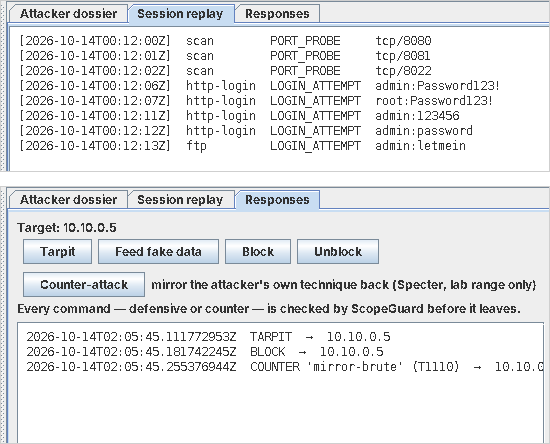
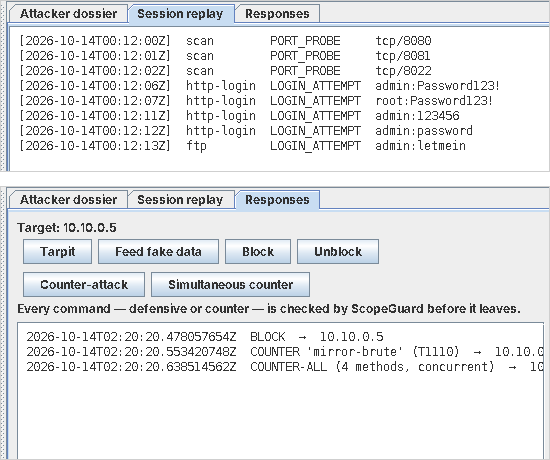
Add a simultaneous (multithreaded) counter: all methods at once
Adds Attacker.launchConcurrent and CounterOffensive.counterAll: on the
operator's command the counter runs every mirror technique (scan, brute,
spray, replay) at the same time, each on its own pool thread, so the source
faces several methods in parallel. A "Simultaneous counter" button logs
COUNTER-ALL (4 methods, concurrent).

Bounded by design -- the same fixed set of techniques run once in parallel,
not an unbounded flood -- and still ScopeGuard-gated: the check runs once on
the caller's thread before any thread starts, so an out-of-range target is
refused before anything runs.

Concurrency is proven, not assumed: CounterOffensiveTest launches four
strategies that only complete if they run at the same time (a CyclicBarrier
that would deadlock if they ran sequentially). 48 tests green (mvn verify).

Report §5.3 (Figure 7), CLAUDE.md and HANDOVER updated.

Claude-Session: https://claude.ai/code/session_01W4Vr2F2hnMnFSFYfWMF2k4

diff --git a/src/test/java/com/mirage/CounterOffensiveTest.java b/src/test/java/com/mirage/CounterOffensiveTest.java
@@ -13,6 +13,9 @@ import org.junit.jupiter.api.Test;
 
 import java.util.List;
 import java.util.Optional;
+import java.util.concurrent.CountDownLatch;
+import java.util.concurrent.CyclicBarrier;
+import java.util.concurrent.TimeUnit;
 
 import static org.junit.jupiter.api.Assertions.*;
 
@@ -26,7 +29,10 @@ class CounterOffensiveTest {
 
     @Test
     void mirrorsAtAnInRangeSourceButRefusesOutOfRange() {
-        CounterStrategy strategy = technique -> Optional.of(new Campaign("test", List.of(new NoOpAttack())));
+        CounterStrategy strategy = new CounterStrategy() {
+            @Override public Optional<Campaign> counterFor(Classification t) { return Optional.of(new Campaign("test", List.of(new NoOpAttack()))); }
+            @Override public Campaign fullCounter() { return new Campaign("test-full", List.of(new NoOpAttack())); }
+        };
         Attacker attacker = new Attacker(new ScopeGuard(List.of("10.10.0.0/24")), line -> { });
         CounterOffensive counter = new CounterOffensive(attacker, strategy, 8080);
         Classification brute = new Classification("Credential brute-force", "T1110", Severity.HIGH);
@@ -39,6 +45,40 @@ class CounterOffensiveTest {
         assertTrue(outOfRange.contains("REFUSED"), outOfRange);
 
         assertEquals(2, counter.log().size());
+        attacker.shutdown();
+    }
+
+    @Test
+    void counterAllRunsEveryMethodAtTheSameTime() throws Exception {
+        int methods = 4;
+        // A barrier that only trips if all methods are running simultaneously; if they
+        // ran one after another, the first would time out and the latch would never reach 0.
+        CyclicBarrier barrier = new CyclicBarrier(methods);
+        CountDownLatch finished = new CountDownLatch(methods);
+        AttackStrategy blocking = new AttackStrategy() {
+            @Override public void run(Target target) {
+                try {
+                    barrier.await(2, TimeUnit.SECONDS);
+                    finished.countDown();
+                } catch (Exception ignored) {
+                    // broken barrier -> the methods were not concurrent
+                }
+            }
+            @Override public String name() { return "blocking"; }
+        };
+        List<AttackStrategy> four = List.of(blocking, blocking, blocking, blocking);
+        CounterStrategy strategy = new CounterStrategy() {
+            @Override public Optional<Campaign> counterFor(Classification t) { return Optional.of(new Campaign("one", four)); }
+            @Override public Campaign fullCounter() { return new Campaign("full", four); }
+        };
+        Attacker attacker = new Attacker(new ScopeGuard(List.of("10.10.0.0/24")), line -> { });
+        CounterOffensive counter = new CounterOffensive(attacker, strategy, 8080);
+
+        String inRange = counter.counterAll("10.10.0.5");
+        assertTrue(inRange.contains("COUNTER-ALL"), inRange);
+        assertTrue(finished.await(3, TimeUnit.SECONDS), "every method must run at the same time");
+
+        assertTrue(counter.counterAll("8.8.8.8").contains("REFUSED"), "out-of-range target must be refused");
         attacker.shutdown();
     }
 }

diff --git a/src/main/java/com/mirage/console/ui/AttackerDetailPanel.java b/src/main/java/com/mirage/console/ui/AttackerDetailPanel.java
@@ -31,6 +31,7 @@ public final class AttackerDetailPanel extends JPanel {
     private final transient AttackerDirectory directory;
     private final transient ResponseController responses;
     private final transient Function<String, String> counterFn;
+    private final transient Function<String, String> counterAllFn;
 
     private final JTextArea dossierArea = readOnlyArea();
     private final JTextArea replayArea = readOnlyArea();
@@ -41,11 +42,12 @@ public final class AttackerDetailPanel extends JPanel {
     private String currentSource;
 
     public AttackerDetailPanel(AttackerDirectory directory, ResponseController responses,
-                               Function<String, String> counterFn) {
+                               Function<String, String> counterFn, Function<String, String> counterAllFn) {
         super(new BorderLayout());
         this.directory = directory;
         this.responses = responses;
         this.counterFn = counterFn;
+        this.counterAllFn = counterAllFn;
         dossierArea.setLineWrap(true);
         dossierArea.setWrapStyleWord(true);
 
@@ -81,7 +83,8 @@ public final class AttackerDetailPanel extends JPanel {
         JPanel counter = new JPanel(new FlowLayout(FlowLayout.LEFT, 6, 4));
         counter.setAlignmentX(LEFT_ALIGNMENT);
         counter.add(counterButton());
-        counter.add(new JLabel("mirror the attacker's own technique back (Specter, lab range only)"));
+        counter.add(counterAllButton());
+        counter.add(new JLabel("turn the attacker's own technique(s) back on them — Specter, lab range only"));
         top.add(counter);
 
         JLabel note = new JLabel("Every command — defensive or counter — is checked by ScopeGuard before it leaves.");
@@ -108,6 +111,16 @@ public final class AttackerDetailPanel extends JPanel {
         b.addActionListener(e -> {
             if (currentSource != null && counterFn != null) {
                 responseLog.append(counterFn.apply(currentSource) + "\n");
+            }
+        });
+        return b;
+    }
+
+    private JButton counterAllButton() {
+        JButton b = new JButton("Simultaneous counter");
+        b.addActionListener(e -> {
+            if (currentSource != null && counterAllFn != null) {
+                responseLog.append(counterAllFn.apply(currentSource) + "\n");
             }
         });
         return b;

diff --git a/src/main/java/com/mirage/specter/Attacker.java b/src/main/java/com/mirage/specter/Attacker.java
@@ -37,6 +37,25 @@ public final class Attacker {
         pool.submit(() -> runCampaign(campaign, target, stealthDelay));
     }
 
+    /**
+     * Launch every strategy of the campaign at once, each on its own pool thread,
+     * so the target faces several techniques simultaneously instead of one after
+     * another. ScopeGuard is still checked once, on the caller's thread, before any
+     * thread is started, so an out-of-range target is refused before anything runs.
+     */
+    public void launchConcurrent(Campaign campaign, Target target) {
+        guard.require(target.host()); // safety boundary, before any thread starts
+        for (AttackStrategy strategy : campaign.strategies()) {
+            pool.submit(() -> {
+                logger.accept("running " + strategy.name() + " against "
+                        + target.host() + ":" + target.port());
+                strategy.run(target);
+            });
+        }
+        logger.accept(campaign.strategies().size() + " strategies launched concurrently against "
+                + target.host() + ":" + target.port());
+    }
+
     private void runCampaign(Campaign campaign, Target target, Duration stealthDelay) {
         for (AttackStrategy strategy : campaign.strategies()) {
             logger.accept("running " + strategy.name() + " against "

diff --git a/src/main/java/com/mirage/console/ui/Dashboard.java b/src/main/java/com/mirage/console/ui/Dashboard.java
@@ -74,7 +74,7 @@ public final class Dashboard extends JFrame {
         this.directory = directory;
         this.counter = counter;
         this.map = new NetworkMapPanel(this::select);
-        this.detail = new AttackerDetailPanel(directory, responses, this::counterFor);
+        this.detail = new AttackerDetailPanel(directory, responses, this::counterFor, this::counterAllFor);
         buildUi();
         new Timer(2000, e -> refreshStatus()).start();
     }
@@ -89,6 +89,14 @@ public final class Dashboard extends JFrame {
             return "no technique observed for " + sourceIp + " yet";
         }
         return counter.counter(sourceIp, technique);
+    }
+
+    /** Turn several methods on the source at once, concurrently (lab range only). */
+    private String counterAllFor(String sourceIp) {
+        if (counter == null) {
+            return "counter-offensive not configured in this view";
+        }
+        return counter.counterAll(sourceIp);
     }
 
     private void buildUi() {

diff --git a/src/main/java/com/mirage/console/CounterOffensive.java b/src/main/java/com/mirage/console/CounterOffensive.java
@@ -55,7 +55,26 @@ public final class CounterOffensive {
         return line;
     }
 
+    /**
+     * Turn several methods on the source at once: every counter technique runs
+     * concurrently, each on its own thread, through the same ScopeGuard check.
+     */
+    public synchronized String counterAll(String sourceIp) {
+        Campaign campaign = strategy.fullCounter();
+        String line;
+        try {
+            attacker.launchConcurrent(campaign, new Target(sourceIp, targetPort));
+            line = Instant.now() + "  COUNTER-ALL (" + campaign.strategies().size()
+                    + " methods, concurrent)  →  " + sourceIp;
+        } catch (SecurityException e) {
+            line = Instant.now() + "  REFUSED counter  →  " + sourceIp + "  (" + e.getMessage() + ")";
+        }
+        log.add(line);
+        return line;
+    }
+
     public synchronized List<String> log() {
         return List.copyOf(log);
     }
 }
+

diff --git a/tools/screenshots/DashboardShot.java b/tools/screenshots/DashboardShot.java
@@ -80,12 +80,12 @@ public class DashboardShot {
             case "replay" -> SwingUtilities.invokeAndWait(() -> tabs.setSelectedIndex(1));
             case "responses" -> SwingUtilities.invokeAndWait(() -> {
                 tabs.setSelectedIndex(2);
-                AbstractButton tarpit = findButton(dash, "Tarpit");
-                if (tarpit != null) tarpit.doClick();
                 AbstractButton block = findButton(dash, "Block");
                 if (block != null) block.doClick();
                 AbstractButton ca = findButton(dash, "Counter-attack");
                 if (ca != null) ca.doClick();
+                AbstractButton caa = findButton(dash, "Simultaneous counter");
+                if (caa != null) caa.doClick();
             });
             case "broken" -> {
                 tamperHash(ledger, 2); // corrupt the 3rd entry's hash, keep its alert

diff --git a/src/main/java/com/mirage/console/MirrorCounterStrategy.java b/src/main/java/com/mirage/console/MirrorCounterStrategy.java
@@ -35,4 +35,13 @@ public final class MirrorCounterStrategy implements CounterStrategy {
             default -> new Campaign("counter-probe", List.of(new PortScanAttack(8020, 8085)));
         });
     }
+
+    @Override
+    public Campaign fullCounter() {
+        return new Campaign("full-counter", List.of(
+                new PortScanAttack(8020, 8085),
+                new BruteForceAttack(List.of("123456", "password", "admin", "letmein", "root")),
+                new PasswordSprayAttack(List.of("admin", "root", "user", "test"), "Password123!"),
+                new HoneytokenReplayAttack("svc_backup:S3cr3tBackup!")));
+    }
 }

diff --git a/src/test/java/com/mirage/MirrorCounterStrategyTest.java b/src/test/java/com/mirage/MirrorCounterStrategyTest.java
@@ -39,4 +39,11 @@ class MirrorCounterStrategyTest {
         assertEquals("counter-probe", campaignFor("T1485")); // ransomware / bait
         assertEquals("counter-probe", campaignFor("T9999")); // unknown
     }
+
+    @Test
+    void fullCounterBundlesEveryMethodForASimultaneousStrike() {
+        Campaign full = strategy.fullCounter();
+        assertEquals("full-counter", full.name());
+        assertEquals(4, full.strategies().size());
+    }
 }

diff --git a/src/main/java/com/mirage/console/CounterStrategy.java b/src/main/java/com/mirage/console/CounterStrategy.java
@@ -12,5 +12,9 @@ import java.util.Optional;
  */
 public interface CounterStrategy {
 
+    /** The single campaign that mirrors one detected technique back at the source. */
     Optional<Campaign> counterFor(Classification technique);
+
+    /** Every counter technique bundled into one campaign, for a simultaneous counter. */
+    Campaign fullCounter();
 }

diff --git a/REPORT.md b/REPORT.md
@@ -233,19 +233,21 @@ exactly what the intruder sent at each decoy. The **responses** tab is a manual 
 alongside the automatic active defence — the `ResponsePolicy` issues a tarpit, fabricated
 data, or a network-wide block by severity, enforced on the Sensor by its `ConnectionGate` —
 the operator can issue those same commands by hand, and can launch a **counter-attack** that
-reads the source's detected technique and turns that same method back on them, driving
-Specter's simulator at the source (`console.CounterOffensive` + `MirrorCounterStrategy`).
+reads the source's detected technique and turns that same method back on them
+(`console.CounterOffensive` + `MirrorCounterStrategy`), or a **simultaneous counter** that runs
+every counter technique at once, each on its own thread (`Attacker.launchConcurrent`), so the
+source faces several methods in parallel — a direct use of the project's multithreading.
 Every command — defensive or counter, automatic or manual — passes `ScopeGuard` first, so a
 counter can only ever reach a source inside the lab range; a real external address is refused.
 This is a controlled, in-range demonstration of "turning it around", not a hack-back.
 
-![Session replay and manual-override / counter-attack response panel](docs/screenshots/detail-replay-responses.png)
+![Session replay and the manual-override / counter-attack / simultaneous-counter response panel](docs/screenshots/detail-replay-responses.png)
 
 *Figure 7. The detail view for a selected source. Top: the session replay — the exact port
-probes and login attempts the intruder sent at each decoy. Bottom: the responses panel; here
-the detected brute-force (T1110) has been mirrored back at the source as a `mirror-brute`
-counter-attack, next to a hand-issued tarpit and block. Every command is checked by ScopeGuard
-before it leaves.*
+probes and login attempts the intruder sent at each decoy. Bottom: the responses panel; the
+detected brute-force (T1110) is mirrored back as a `mirror-brute` counter-attack, and
+`COUNTER-ALL` runs all four methods against the source at once, each on its own thread. Every
+command is checked by ScopeGuard before it leaves.*
 
 ### 5.4 Ledger verification (Figure 8)
 

diff --git a/HANDOVER.md b/HANDOVER.md
@@ -30,7 +30,7 @@ All seven phases **and all four stretch goals** are built. The capstone **end-to
 proves the full chain: Specter replays a honeytoken → decoy captures it → Sensor reports over the
 socket link → Console classifies it CRITICAL → records it in the hash-chained ledger → dispatches a
 scoped BLOCK. The demo is scripted in `DEMO.md`. Everything is gated by `ScopeGuard` to the lab
-range. **43 tests green**; CI runs `mvn verify` on every PR and on `master`.
+range. **48 tests green**; CI runs `mvn verify` on every PR and on `master`.
 
 ## Stretch goals — all done
 
@@ -55,7 +55,10 @@ non-GUI logic is unit-tested (`AttackerDossierTest`, `AttackerDirectoryTest`, `R
 (`console.CounterOffensive` + `MirrorCounterStrategy`): it maps the source's detected MITRE
 technique to the matching Specter campaign and launches it back at the source through the Specter
 `Attacker` — which calls `ScopeGuard.require` first, so a counter can only ever reach an in-range
-source (tested in `MirrorCounterStrategyTest`, `CounterOffensiveTest`).
+source (tested in `MirrorCounterStrategyTest`, `CounterOffensiveTest`). There is also a
+**Simultaneous counter** button: `CounterOffensive.counterAll` → `Attacker.launchConcurrent` runs
+all four counter methods at once, each on its own pool thread (a bounded set, not a flood) — the
+concurrency is proven in `CounterOffensiveTest.counterAllRunsEveryMethodAtTheSameTime`.
 
 ## Screenshots
 
@@ -101,6 +104,10 @@ Regenerate with `mvn compile && tools/screenshots/capture.sh` (needs Xvfb + Imag
   own detected technique back at an in-range source via Specter, `ScopeGuard`-gated (external IPs
   refused). Wired a Counter-attack button into the dashboard responses tab; +2 test classes; updated
   CLAUDE.md's hard rule and Report §5.3 (Figure 7). 46 tests green.
+- **2026-10-14 (simultaneous counter)** — added `Attacker.launchConcurrent` and
+  `CounterOffensive.counterAll`: a Simultaneous-counter button runs all four counter methods at once,
+  each on its own thread (bounded, `ScopeGuard`-gated), showcasing multithreading. Added the
+  concurrency proof test + Figure 7 now shows the `COUNTER-ALL` line. 48 tests green.
 
 ## Links
 

diff --git a/CLAUDE.md b/CLAUDE.md
@@ -25,7 +25,9 @@ addresses inside the configured lab CIDR and denies everything else by default.
 - "Turning it around on the attacker" is realised as trapping, slowing (tarpit), misleading
   (fake data), blocking, and — for a source inside the lab range — mirroring the attacker's own
   technique back at them via Specter (`console.CounterOffensive` + `MirrorCounterStrategy`,
-  operator-triggered only). Every one of these, the mirror included, goes through `ScopeGuard`,
+  operator-triggered only): one method, or several at once on separate threads
+  (`Attacker.launchConcurrent`, a bounded set of techniques — never an unbounded flood/DoS).
+  Every one of these, the mirror and the concurrent counter included, goes through `ScopeGuard`,
   so none can reach a host outside the lab range. The counter is a controlled in-range
   demonstration, never a hack-back against a real third party.
 
